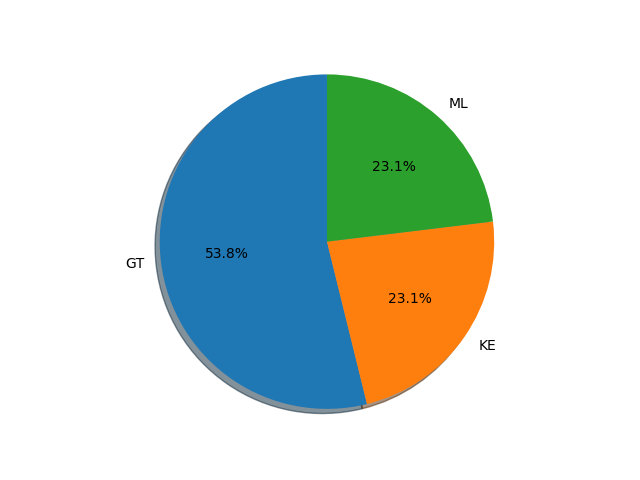
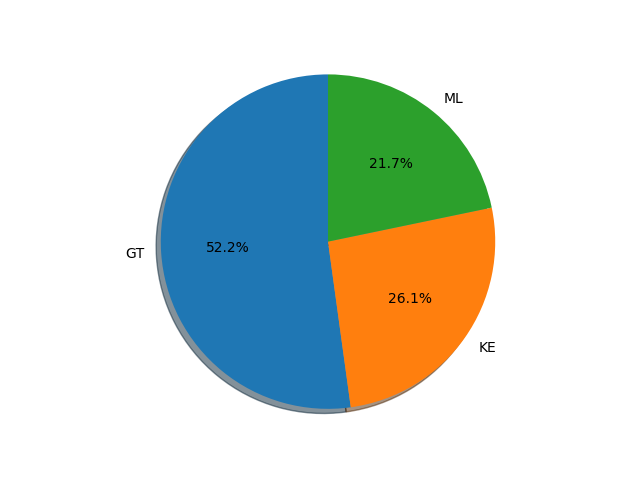
added a number of new papers

diff --git a/README.md b/README.md
@@ -14,6 +14,11 @@ Systems that incorporate more than one procees are categorized as `integrated`.
 ## Level
 |Year|Title|Authors|Approach|Resources|
 |---|---|---|---|---|
+|2012|[Implementation and evaluation of autonomous multi-track fader control](http://citeseerx.ist.psu.edu/viewdoc/download?doi=10.1.1.725.3873&rep=rep1&type=pdf)|S. Mansbridge, S. Finn, and J. D. Reiss|GT|No|
+|2012|[An offline, automatic mixing method for live music, incorporating multiple sources, loudspeakers, and room effects](http://ieeexplore.ieee.org/document/6791175)|M. J. Terrell and M. Sandler|GT|No|
+|2012|[Multitrack mixing using a model of loudness and partial loudness](https://www.eecs.qmul.ac.uk/~josh/documents/WardReissAthwal-AES133-Multitrackmixingusingamodelofloudnessandpartialloudness.pdf)|D.Ward, J. D. Reiss, and C. Athwal|GT|No|
+|2011|[Automatic multi-track mixing using linear dynamical systems](http://music.ece.drexel.edu/files/Navigation/Publications/Scott2011a.pdf)|J. Scott et al.|ML|[Yes](http://music.ece.drexel.edu/research/AutoMix/lds)|
+|2011|[Analysis of acoustic features for automated multi-track mixing](http://music.ece.drexel.edu/files/Navigation/Publications/Scott2011b.pdf)|J. Scott and Y. E. Kim|ML|No|
 |2009|[Automatic gain and fader control for live mixing](https://www.researchgate.net/publication/224086775_Automatic_gain_and_fader_control_for_live_mixing)|E. Perez Gonzalez and J. D. Reiss|GT|No|
 |2009|[Automatic equalization of multichannel audio using cross-adaptive methods](https://www.researchgate.net/publication/277836816_Automatic_Equalization_of_Multichannel_Audio_Using_Cross-Adaptive_Methods)|E. Perez Gonzalez and J. D. Reiss|GT|No|
 |2009|[Automatic monitor mixing for live musical performance](http://www.aes.org/e-lib/browse.cfm?elib=15229)|M. J. Terrell and J. D. Reiss|KE|No|
@@ -22,14 +27,19 @@ Systems that incorporate more than one procees are categorized as `integrated`.
 ## Panning
 |Year|Title|Authors|Approach|Resources|
 |---|---|---|---|---|
+|2012|[An autonomous system for multitrack stereo pan positioning](http://www.eecs.qmul.ac.uk/~josh/documents/MansbridgeFinnReiss-AES133-Autonomoussystemformultitrackstereopositioning.pdf)|S. Mansbridge, S. Finn, and J. D. Reiss|KE|No|
 |2010|[A real-time semiautonomous audio panning system for music mixing](https://asp-eurasipjournals.springeropen.com/articles/10.1155/2010/436895)|E. Perez Gonzalez and J. D. Reiss|GT|No|
 ## Equalization
 |Year|Title|Authors|Approach|Resources|
 |---|---|---|---|---|
+|2013|[Automated tonal balance enhancement for audio mastering applications](http://www.aes.org/e-lib/browse.cfm?elib=16737)|S. I. Mimilakis et al|GT|No|
+|2013|[Implementation of an intelligent equalization tool using Yule-Walker for music mixing and mastering](http://www.eecs.qmul.ac.uk/~josh/documents/Ma%20Reiss-%20Implementation%20of%20an%20Intelligent%20Equalization%20Tool%20Using%20Yule-Walker%20for%20Music%20Mixing%20and%20Mastering.pdf)|Z. Ma, J. D. Reiss, and D. A. A. Black|KE|No|
+|2009|[Automatic equalization of multichannel audio using cross-adaptive methods](http://www.aes.org/e-lib/browse.cfm?elib=15026)|E. Perez Gonzalez and J. D. Reiss|GT|No|
 ## Compression
 |Year|Title|Authors|Approach|Resources|
 |---|---|---|---|---|
 |2012|[An autonomous method for multi-track dynamic range compression](https://www.dafx12.york.ac.uk/papers/dafx12_submission_6.pdf)|J. A. Maddams, S. Finn, and J. D. Reiss|GT|No|
+|2010|[Automatic noise gate settings for drum recordings containing bleed from secondary sources](https://dl.acm.org/citation.cfm?id=1972713)|M. J. Terrell, J. D. Reiss|KE|No|
 ## Reverb
 |Year|Title|Authors|Approach|Resources|
 |---|---|---|---|---|
